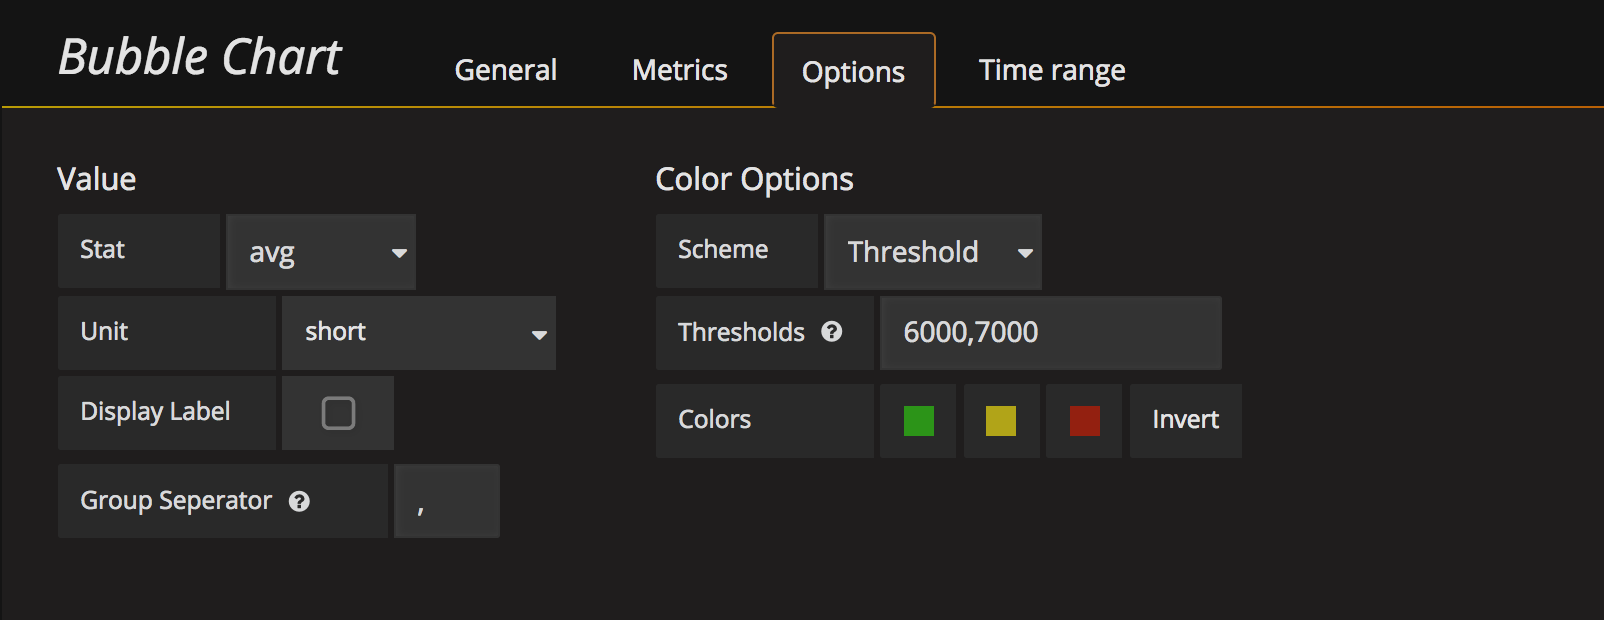
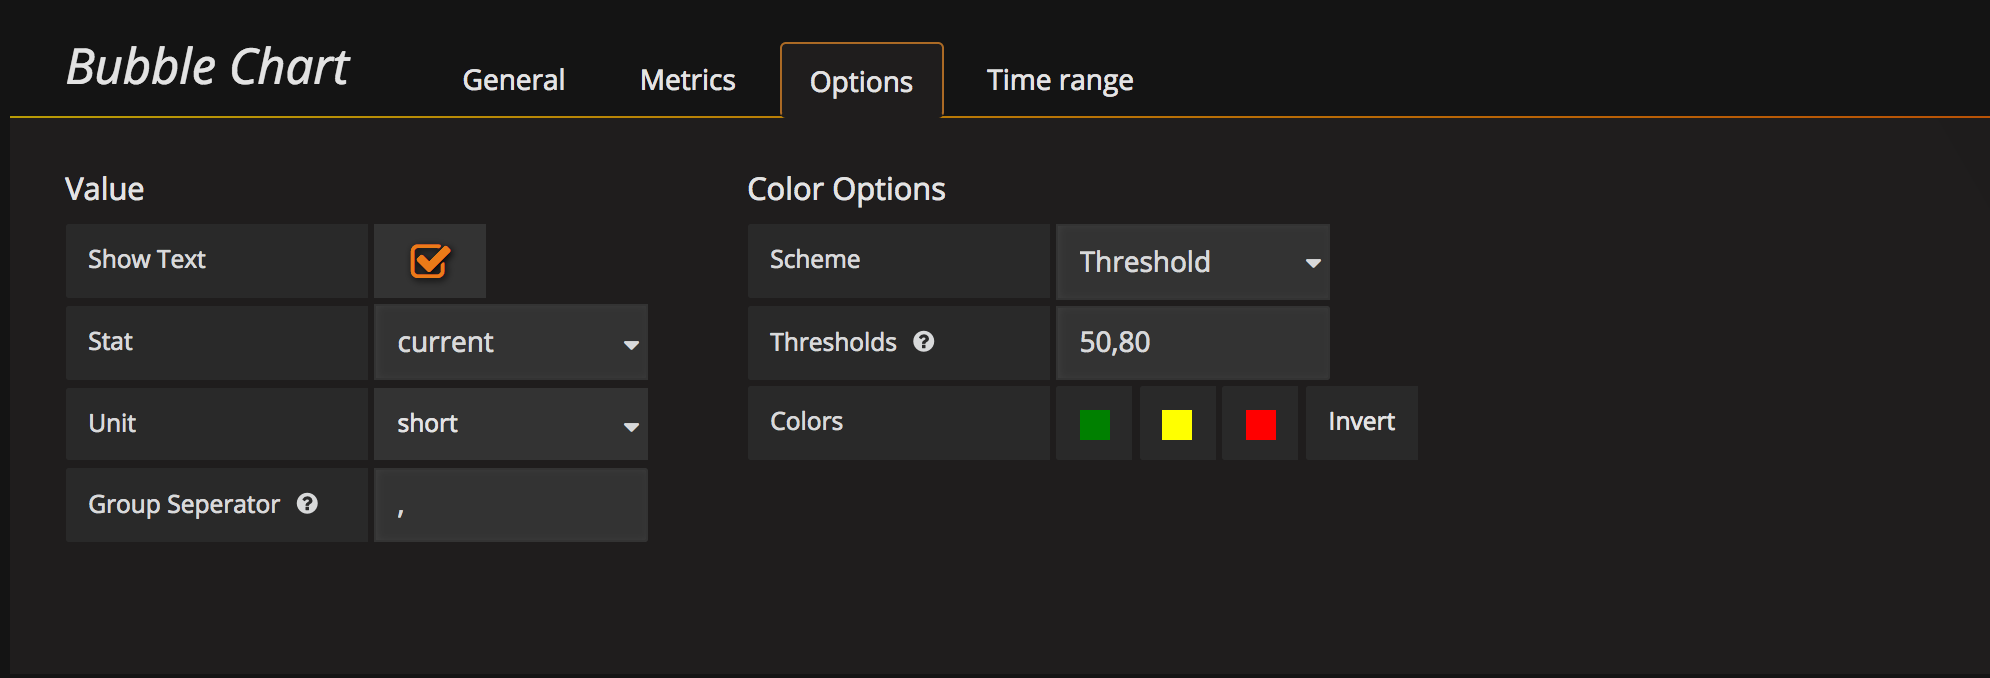
Initial checkins.

diff --git a/dist/editor.html b/dist/editor.html
@@ -1,33 +1,30 @@
 <div class="editor-row">
     <div class="section gf-form-group">
         <h5 class="section-heading">Value</h5>
-
+        <div class="gf-form-inline">
+            <gf-form-switch class="gf-form" label="Show Text" label-class="width-11" checked="ctrl.panel.displayLabel" on-change="ctrl.render()"></gf-form-switch>
+        </div>
         <div class="gf-form-inline">
             <div class="gf-form">
-                <label class="gf-form-label width-6">Stat</label>
-                <div class="gf-form-select-wrapper width-7">
+                <label class="gf-form-label width-11">Stat</label>
+                <div class="gf-form-select-wrapper width-10">
                     <select class="gf-form-input" ng-model="ctrl.panel.valueName" ng-options="f for f in ['min','max','avg', 'current', 'total']" ng-change="ctrl.render()"></select>
                 </div>
             </div>
         </div>
         <div class="gf-form-inline">
             <div class="gf-form">
-                <span class="gf-form-label width-8">Unit</span>
+                <span class="gf-form-label width-11">Unit</span>
                 <div class="gf-form-dropdown-typeahead width-10" ng-model="ctrl.panel.format" dropdown-typeahead="ctrl.unitFormats" dropdown-typeahead-on-select="ctrl.setUnitFormat($subItem)">
                 </div>
             </div>
         </div>
         <div class="gf-form-inline">
             <div class="gf-form">
-                <gf-form-switch class="gf-form" label="Display Label" label-class="width-8" checked="ctrl.panel.displayLabel" on-change="ctrl.render()"></gf-form-switch>
-            </div>
-        </div>
-        <div class="gf-form-inline">
-            <div class="gf-form">
-                <label class="gf-form-label width-12">Group Seperator
+                <label class="gf-form-label width-11">Group Seperator
                             <tip>Use this character in 'Alias:' under 'Metric'' Tab to group tag values hierarchly from left to right. e.g. ',' will be used in alias as $tag_env,$tag_host</tip>
                         </label>
-                <input type="text" class="gf-form-input width-4" ng-model="ctrl.panel.groupSeperator" ng-blur="ctrl.render()" placeholder=","></input>
+                <input type="text" class="gf-form-input width-10" ng-model="ctrl.panel.groupSeperator" ng-blur="ctrl.render()" placeholder=","></input>
             </div>
         </div>
     </div>
@@ -36,15 +33,15 @@
         <h5 class="section-heading"> Color Options</h5>
         <div class="gf-form-inline">
             <div class="gf-form">
-                <label class="gf-form-label width-6">Scheme</label>
-                <div class="gf-form-select-wrapper width-8">
+                <label class="gf-form-label width-11">Scheme</label>
+                <div class="gf-form-select-wrapper width-10">
                     <select class="gf-form-input" ng-model="ctrl.panel.colorScheme" ng-options="f for f in ['Group','Threshold','Gradient', 'Unique']" ng-change="ctrl.render()"></select>
                 </div>
             </div>
         </div>
         <div class="gf-form" ng-if="ctrl.panel.colorScheme === 'Group'">
             <div class="gf-form-inline">
-                <span class="gf-form-label width-10">Colors</span>
+                <span class="gf-form-label width-11">Colors</span>
                 <span class="gf-form-label">
                         <spectrum-picker ng-model="ctrl.panel.groupDepthColors[0]" ng-change="ctrl.render()" ></spectrum-picker>
                     </span>
@@ -55,17 +52,15 @@
         </div>
         <div class="gf-form" ng-if="ctrl.panel.colorScheme === 'Threshold'">
             <div class="gf-form-inline">
-                <div class="gf-form max-width-21">
-                    <label class="gf-form-label width-8">Thresholds
+                <label class="gf-form-label width-11">Thresholds
                             <tip>Define two threshold values&lt;br /&gt; 50,80 will produce: &lt;50 = Green, 50:80 = Yellow, &gt;80 = Red</tip>
                         </label>
-                    <input type="text" class="gf-form-input" ng-model="ctrl.panel.thresholds" ng-blur="ctrl.render()" placeholder="50,80"></input>
-                </div>
+                <input type="text" class="gf-form-input width-10" ng-model="ctrl.panel.thresholds" ng-blur="ctrl.render()" placeholder="50,80"></input>
             </div>
         </div>
         <div class="gf-form" ng-if="ctrl.panel.colorScheme === 'Threshold'">
             <div class="gf-form-inline">
-                <span class="gf-form-label width-8">Colors</span>
+                <span class="gf-form-label width-11">Colors</span>
                 <span class="gf-form-label">
                     <spectrum-picker ng-model="ctrl.panel.thresholdColors[0]" ng-change="ctrl.render()" ></spectrum-picker>
                 </span>
@@ -84,17 +79,15 @@
         </div>
         <div class="gf-form" ng-if="ctrl.panel.colorScheme === 'Gradient'">
             <div class="gf-form-inline">
-                <div class="gf-form max-width-21">
-                    <label class="gf-form-label width-8">Thresholds
+                <label class="gf-form-label width-11">Thresholds
                             <tip>Define two threshold values&lt;br /&gt; 50,80 will produce: &lt;50 = Green, 50:80 = Yellow, &gt;80 = Red</tip>
                         </label>
-                    <input type="text" class="gf-form-input" ng-model="ctrl.panel.gradientThresholds" ng-blur="ctrl.render()" placeholder="50,80"></input>
-                </div>
+                <input type="text" class="gf-form-input width-10" ng-model="ctrl.panel.gradientThresholds" ng-blur="ctrl.render()" placeholder="50,80"></input>
             </div>
         </div>
         <div class="gf-form" ng-if="ctrl.panel.colorScheme === 'Gradient'">
             <div class="gf-form-inline">
-                <span class="gf-form-label width-10">Colors</span>
+                <span class="gf-form-label width-11">Colors</span>
                 <span class="gf-form-label">
                         <spectrum-picker ng-model="ctrl.panel.gradientColors[0]" ng-change="ctrl.render()" ></spectrum-picker>
                     </span>

diff --git a/src/editor.html b/src/editor.html
@@ -1,33 +1,30 @@
 <div class="editor-row">
     <div class="section gf-form-group">
         <h5 class="section-heading">Value</h5>
-
+        <div class="gf-form-inline">
+            <gf-form-switch class="gf-form" label="Show Text" label-class="width-11" checked="ctrl.panel.displayLabel" on-change="ctrl.render()"></gf-form-switch>
+        </div>
         <div class="gf-form-inline">
             <div class="gf-form">
-                <label class="gf-form-label width-6">Stat</label>
-                <div class="gf-form-select-wrapper width-7">
+                <label class="gf-form-label width-11">Stat</label>
+                <div class="gf-form-select-wrapper width-10">
                     <select class="gf-form-input" ng-model="ctrl.panel.valueName" ng-options="f for f in ['min','max','avg', 'current', 'total']" ng-change="ctrl.render()"></select>
                 </div>
             </div>
         </div>
         <div class="gf-form-inline">
             <div class="gf-form">
-                <span class="gf-form-label width-8">Unit</span>
+                <span class="gf-form-label width-11">Unit</span>
                 <div class="gf-form-dropdown-typeahead width-10" ng-model="ctrl.panel.format" dropdown-typeahead="ctrl.unitFormats" dropdown-typeahead-on-select="ctrl.setUnitFormat($subItem)">
                 </div>
             </div>
         </div>
         <div class="gf-form-inline">
             <div class="gf-form">
-                <gf-form-switch class="gf-form" label="Display Label" label-class="width-8" checked="ctrl.panel.displayLabel" on-change="ctrl.render()"></gf-form-switch>
-            </div>
-        </div>
-        <div class="gf-form-inline">
-            <div class="gf-form">
-                <label class="gf-form-label width-12">Group Seperator
+                <label class="gf-form-label width-11">Group Seperator
                             <tip>Use this character in 'Alias:' under 'Metric'' Tab to group tag values hierarchly from left to right. e.g. ',' will be used in alias as $tag_env,$tag_host</tip>
                         </label>
-                <input type="text" class="gf-form-input width-4" ng-model="ctrl.panel.groupSeperator" ng-blur="ctrl.render()" placeholder=","></input>
+                <input type="text" class="gf-form-input width-10" ng-model="ctrl.panel.groupSeperator" ng-blur="ctrl.render()" placeholder=","></input>
             </div>
         </div>
     </div>
@@ -36,15 +33,15 @@
         <h5 class="section-heading"> Color Options</h5>
         <div class="gf-form-inline">
             <div class="gf-form">
-                <label class="gf-form-label width-6">Scheme</label>
-                <div class="gf-form-select-wrapper width-8">
+                <label class="gf-form-label width-11">Scheme</label>
+                <div class="gf-form-select-wrapper width-10">
                     <select class="gf-form-input" ng-model="ctrl.panel.colorScheme" ng-options="f for f in ['Group','Threshold','Gradient', 'Unique']" ng-change="ctrl.render()"></select>
                 </div>
             </div>
         </div>
         <div class="gf-form" ng-if="ctrl.panel.colorScheme === 'Group'">
             <div class="gf-form-inline">
-                <span class="gf-form-label width-10">Colors</span>
+                <span class="gf-form-label width-11">Colors</span>
                 <span class="gf-form-label">
                         <spectrum-picker ng-model="ctrl.panel.groupDepthColors[0]" ng-change="ctrl.render()" ></spectrum-picker>
                     </span>
@@ -55,17 +52,15 @@
         </div>
         <div class="gf-form" ng-if="ctrl.panel.colorScheme === 'Threshold'">
             <div class="gf-form-inline">
-                <div class="gf-form max-width-21">
-                    <label class="gf-form-label width-8">Thresholds
+                <label class="gf-form-label width-11">Thresholds
                             <tip>Define two threshold values&lt;br /&gt; 50,80 will produce: &lt;50 = Green, 50:80 = Yellow, &gt;80 = Red</tip>
                         </label>
-                    <input type="text" class="gf-form-input" ng-model="ctrl.panel.thresholds" ng-blur="ctrl.render()" placeholder="50,80"></input>
-                </div>
+                <input type="text" class="gf-form-input width-10" ng-model="ctrl.panel.thresholds" ng-blur="ctrl.render()" placeholder="50,80"></input>
             </div>
         </div>
         <div class="gf-form" ng-if="ctrl.panel.colorScheme === 'Threshold'">
             <div class="gf-form-inline">
-                <span class="gf-form-label width-8">Colors</span>
+                <span class="gf-form-label width-11">Colors</span>
                 <span class="gf-form-label">
                     <spectrum-picker ng-model="ctrl.panel.thresholdColors[0]" ng-change="ctrl.render()" ></spectrum-picker>
                 </span>
@@ -84,17 +79,15 @@
         </div>
         <div class="gf-form" ng-if="ctrl.panel.colorScheme === 'Gradient'">
             <div class="gf-form-inline">
-                <div class="gf-form max-width-21">
-                    <label class="gf-form-label width-8">Thresholds
+                <label class="gf-form-label width-11">Thresholds
                             <tip>Define two threshold values&lt;br /&gt; 50,80 will produce: &lt;50 = Green, 50:80 = Yellow, &gt;80 = Red</tip>
                         </label>
-                    <input type="text" class="gf-form-input" ng-model="ctrl.panel.gradientThresholds" ng-blur="ctrl.render()" placeholder="50,80"></input>
-                </div>
+                <input type="text" class="gf-form-input width-10" ng-model="ctrl.panel.gradientThresholds" ng-blur="ctrl.render()" placeholder="50,80"></input>
             </div>
         </div>
         <div class="gf-form" ng-if="ctrl.panel.colorScheme === 'Gradient'">
             <div class="gf-form-inline">
-                <span class="gf-form-label width-10">Colors</span>
+                <span class="gf-form-label width-11">Colors</span>
                 <span class="gf-form-label">
                         <spectrum-picker ng-model="ctrl.panel.gradientColors[0]" ng-change="ctrl.render()" ></spectrum-picker>
                     </span>

diff --git a/dist/bubble_ctrl.js b/dist/bubble_ctrl.js
@@ -84,7 +84,8 @@ System.register(['app/plugins/sdk', './external/d3.v3.min', 'lodash', 'jquery', 
                 gradientThresholds: "50,80",
                 gradientColors: ['red', 'green'],
                 groupSeperator: ',',
-                displayLabel: true
+                displayLabel: true,
+                height: 400
             };
 
             _export('BubbleChartCtrl', BubbleChartCtrl = function (_MetricsPanelCtrl) {
@@ -260,7 +261,7 @@ System.register(['app/plugins/sdk', './external/d3.v3.min', 'lodash', 'jquery', 
                 }, {
                     key: 'onInitEditMode',
                     value: function onInitEditMode() {
-                        this.addEditorTab('Options', 'public/plugins/bubblechart-panel/editor.html', 2);
+                        this.addEditorTab('Options', 'public/plugins/digrich-bubblechart-panel/editor.html', 2);
                         this.unitFormats = kbn.getUnitFormats();
                     }
                 }, {

diff --git a/src/bubble_ctrl.js b/src/bubble_ctrl.js
@@ -24,6 +24,7 @@ const panelDefaults = {
     gradientColors: ['red', 'green'],
     groupSeperator: ',',
     displayLabel: true,
+    height: 400
 };
 
 export class BubbleChartCtrl extends MetricsPanelCtrl {
@@ -178,7 +179,7 @@ export class BubbleChartCtrl extends MetricsPanelCtrl {
     }
 
     onInitEditMode() {
-        this.addEditorTab('Options', 'public/plugins/bubblechart-panel/editor.html', 2);
+        this.addEditorTab('Options', 'public/plugins/digrich-bubblechart-panel/editor.html', 2);
         this.unitFormats = kbn.getUnitFormats();
     }
 

diff --git a/dist/README.md b/dist/README.md
@@ -2,40 +2,38 @@
 This panel is meant to have a centralized view of any component in the form of a bubble chart. Circles are grouped together into clusters based on tag values and circle size and color represents the aggregated value of time series data.
 
 ### Grouping
-Circles are grouped in multiple clusters as per alias format. Tag values seperated by a group seperator in alias field define chart hierarchy and grouping. For e.g. '$tag_dc,$tag_host' or 'DataCenter: $tag_dc, Host: $tag_host' will group all hosts under each data center circle. By default comma is a group seperator which can be changed under 'Options' tab. 
+Circles are grouped in multiple clusters as per alias format. Tag values separated by a group separator in alias field define chart hierarchy and grouping. For e.g. '$tag_dc,$tag_host' or 'DataCenter: $tag_dc, Host: $tag_host' will group all hosts under each data center circle. By default, a comma is a group separator which can be changed under 'Options' tab.
 
 ### Options
-![Options](https://raw.githubusercontent.com/digrich/bubblechart-panel/master/src/img/BC_O1.png?raw=true)
+![Options](https://raw.githubusercontent.com/digrich/bubblechart-panel/master/src/img/BC_O1.png)
 
 ###
+* Show Text - Enable/Disable the text display within a circle.
 * Stat - Aggregate data same as singlestat panel.
 * Unit - Formats same as singlestate panel. Mouse hover on any circle will display the formatted value.
-* Display label - Enable/Disable the text display within circle.
-* Group Seperator - Tag values seperator in Alias for grouping. 
+* Group Separator - Tag values separator in Alias for grouping.
 * Color Schemes - Multiple color schemes.
     * Group - In grouping scheme, circles are colored as per their grouping.
-        * Colors -  Start and end range of colors for group hierarchy.
+        * Colors - Start and end range of colors for group hierarchy.
     * Threshold - In threshold scheme, circles are colored as per threshold values.
         * Thresholds - Threshold values.
         * Colors - Colors for different threshold values.
-    * Gradient - In gradient scheme, circles are colored as per component value.  
+    * Gradient - In gradient scheme, circles are colored as per component value.
         * Thresholds - Threshold values.
         * Colors - Colors for gradient scale.
-    * Unique - In unique scheme, different colors categories are applied to circles.
+    * Unique - In the unique scheme, different colors categories are applied to circles.
 
 ### Compatibility
-Tested against following databases. 
+Tested against following databases.
 * [OpenTSDB](http://opentsdb.net/)
 * [Bosun](http://bosun.org/)
 
-Hopefully it would work with other databases also.
+Hopefully, it would work with other databases also.
 
 ### Screenshots: Different color schemes.
 ![Gradient color scheme](https://raw.githubusercontent.com/digrich/bubblechart-panel/master/src/img/BC.png?raw=true)
 ![Unique color scheme](https://raw.githubusercontent.com/digrich/bubblechart-panel/master/src/img/BC1.png?raw=true)
 ![Threshold color scheme](https://raw.githubusercontent.com/digrich/bubblechart-panel/master/src/img/BC3.png?raw=true)
 ![Group color scheme](https://raw.githubusercontent.com/digrich/bubblechart-panel/master/src/img/BC2.png?raw=true)
-
-<img src="https://raw.githubusercontent.com/digrich/bubblechart-panel/master/src/img/BC.png?raw=true" title="Gradient color scheme" width="20%" height="20%">  <img src="https://raw.githubusercontent.com/digrich/bubblechart-panel/master/src/img/BC1.png?raw=true" title="Unique color scheme" width="20%" height="20%">  <img src="https://raw.githubusercontent.com/digrich/bubblechart-panel/master/src/img/BC3.png?raw=true" title="Threshold color scheme" width="20%" height="20%">  <img src="https://raw.githubusercontent.com/digrich/bubblechart-panel/master/src/img/BC2.png?raw=true" title="Group color scheme" width="20%" height="20%">
 
 ### Release Notes

diff --git a/README.md b/README.md
@@ -2,33 +2,33 @@
 This panel is meant to have a centralized view of any component in the form of a bubble chart. Circles are grouped together into clusters based on tag values and circle size and color represents the aggregated value of time series data.
 
 ### Grouping
-Circles are grouped in multiple clusters as per alias format. Tag values seperated by a group seperator in alias field define chart hierarchy and grouping. For e.g. '$tag_dc,$tag_host' or 'DataCenter: $tag_dc, Host: $tag_host' will group all hosts under each data center circle. By default comma is a group seperator which can be changed under 'Options' tab. 
+Circles are grouped in multiple clusters as per alias format. Tag values separated by a group separator in alias field define chart hierarchy and grouping. For e.g. '$tag_dc,$tag_host' or 'DataCenter: $tag_dc, Host: $tag_host' will group all hosts under each data center circle. By default, a comma is a group separator which can be changed under 'Options' tab.
 
 ### Options
 ![Options](https://raw.githubusercontent.com/digrich/bubblechart-panel/master/src/img/BC_O1.png)
 
 ###
+* Show Text - Enable/Disable the text display within a circle.
 * Stat - Aggregate data same as singlestat panel.
 * Unit - Formats same as singlestate panel. Mouse hover on any circle will display the formatted value.
-* Display label - Enable/Disable the text display within circle.
-* Group Seperator - Tag values seperator in Alias for grouping. 
+* Group Separator - Tag values separator in Alias for grouping.
 * Color Schemes - Multiple color schemes.
     * Group - In grouping scheme, circles are colored as per their grouping.
-        * Colors -  Start and end range of colors for group hierarchy.
+        * Colors - Start and end range of colors for group hierarchy.
     * Threshold - In threshold scheme, circles are colored as per threshold values.
         * Thresholds - Threshold values.
         * Colors - Colors for different threshold values.
-    * Gradient - In gradient scheme, circles are colored as per component value.  
+    * Gradient - In gradient scheme, circles are colored as per component value.
         * Thresholds - Threshold values.
         * Colors - Colors for gradient scale.
-    * Unique - In unique scheme, different colors categories are applied to circles.
+    * Unique - In the unique scheme, different colors categories are applied to circles.
 
 ### Compatibility
-Tested against following databases. 
+Tested against following databases.
 * [OpenTSDB](http://opentsdb.net/)
 * [Bosun](http://bosun.org/)
 
-Hopefully it would work with other databases also.
+Hopefully, it would work with other databases also.
 
 ### Screenshots: Different color schemes.
 ![Gradient color scheme](https://raw.githubusercontent.com/digrich/bubblechart-panel/master/src/img/BC.png?raw=true)
